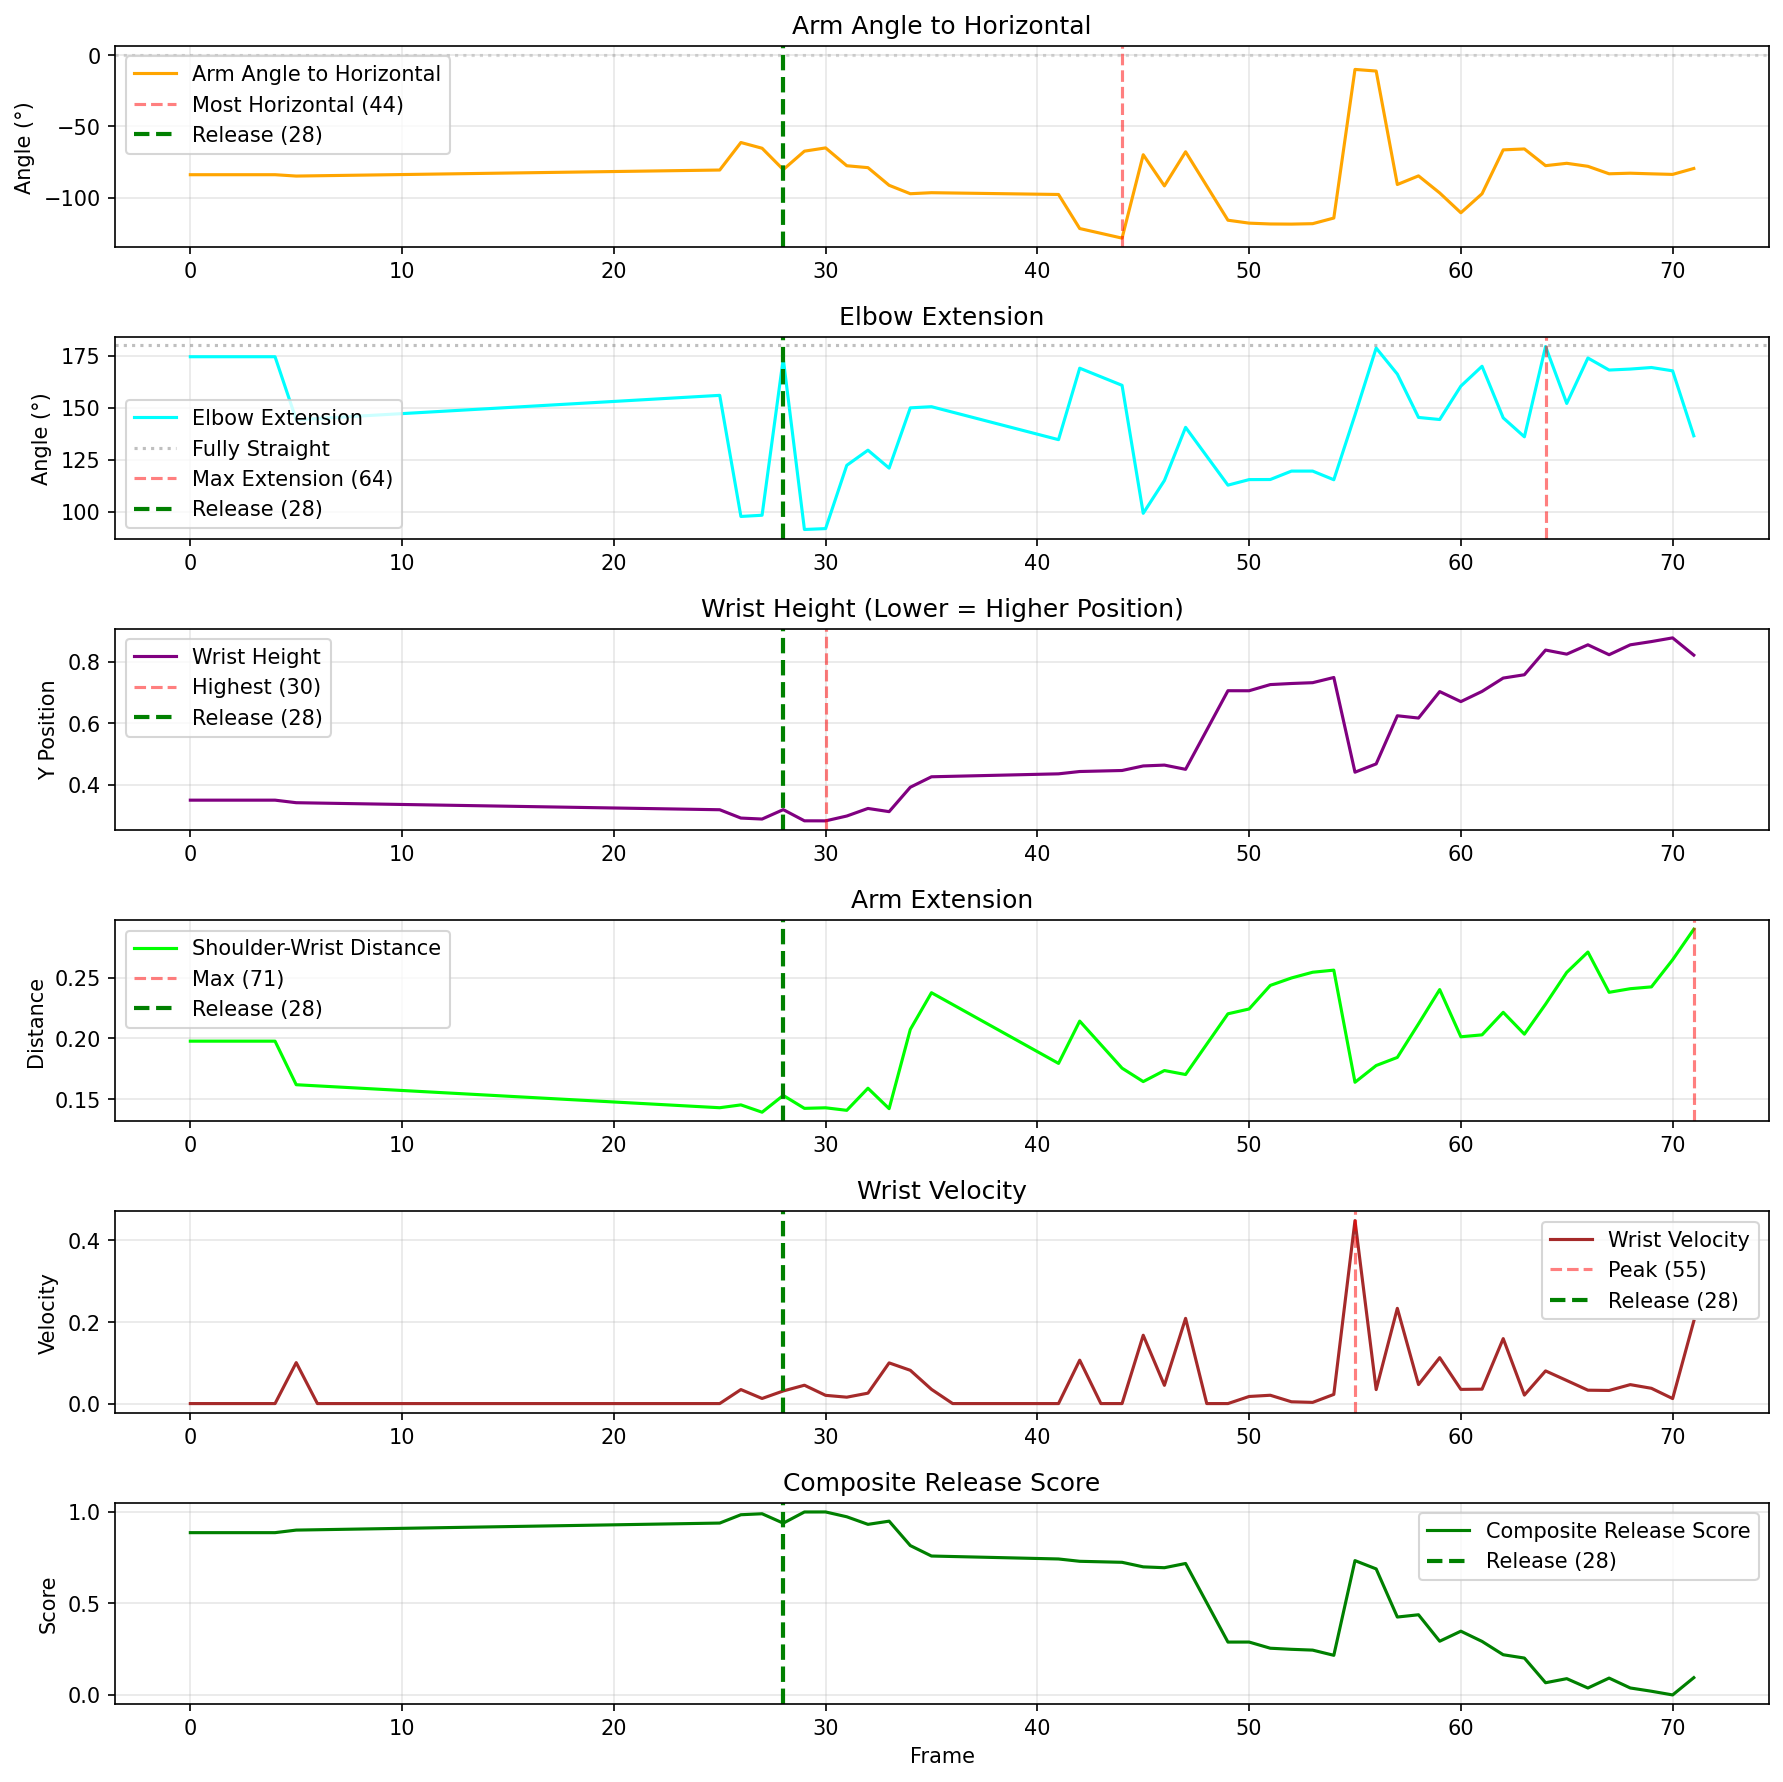
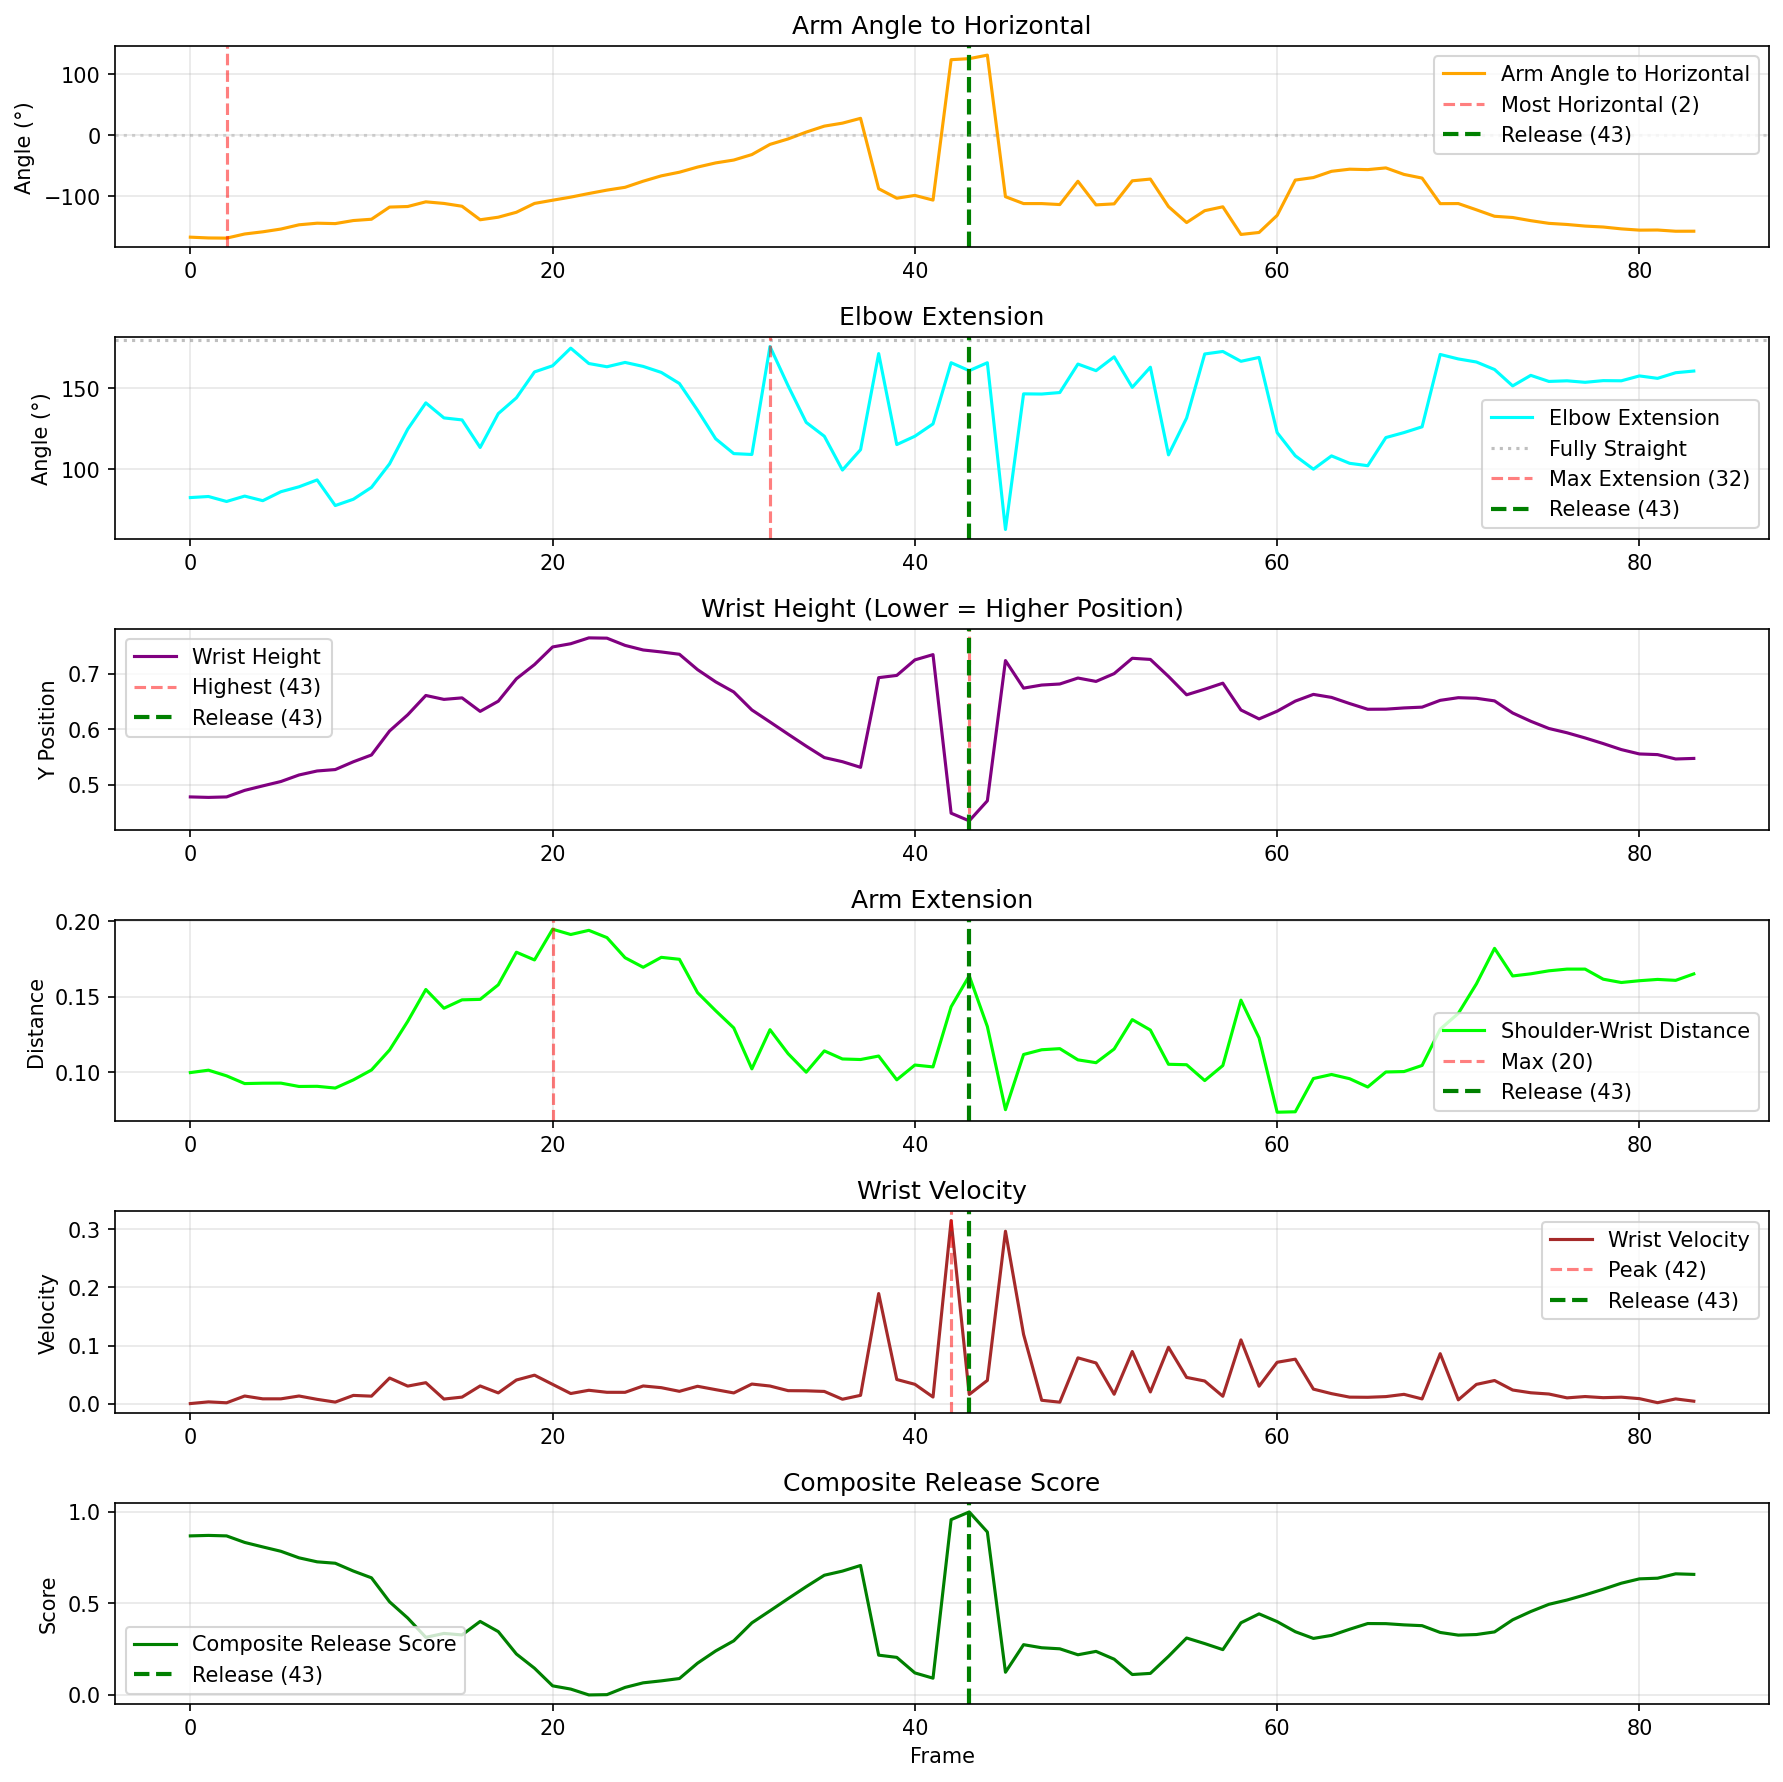
Added release point functionality

diff --git a/test/release1.py b/test/release1.py
@@ -1,0 +1,196 @@
+import cv2
+import math
+import mediapipe as mp
+import numpy as np
+
+VIDEO_IN = "pitch2.mov"
+VIDEO_OUT = "./dodgers_annotated.mp4"   # set to None if you don't want to save
+PLAYBACK_SPEED = 0.35  # 1.0 = real-time-ish, 0.5 = half speed, 0.35 ~ slo-mo
+
+mp_pose = mp.solutions.pose
+
+def angle_deg(a, b, c):
+    """Angle ABC at point b in degrees. a,b,c are (x,y,z) floats."""
+    ax, ay, az = a
+    bx, by, bz = b
+    cx, cy, cz = c
+    bax, bay, baz = ax - bx, ay - by, az - bz
+    bcx, bcy, bcz = cx - bx, cy - by, cz - bz
+    dot = bax * bcx + bay * bcy + baz * bcz
+    nba = math.sqrt(bax*bax + bay*bay + baz*baz)
+    nbc = math.sqrt(bcx*bcx + bcy*bcy + bcz*bcz)
+    if nba == 0 or nbc == 0:
+        return None
+    cos_t = max(-1.0, min(1.0, dot / (nba * nbc)))
+    return math.degrees(math.acos(cos_t))
+
+def to_px(landmark, w, h):
+    """Convert normalized landmark to pixel coordinates."""
+    return int(landmark.x * w), int(landmark.y * h)
+
+def draw_angle_arc(img, A, B, C, color=(0, 255, 255)):
+    BA = (A[0] - B[0], A[1] - B[1])
+    BC = (C[0] - B[0], C[1] - B[1])
+    dot = BA[0]*BC[0] + BA[1]*BC[1]
+    nba = math.hypot(*BA)
+    nbc = math.hypot(*BC)
+    if nba == 0 or nbc == 0:
+        return None
+    cos_t = max(-1.0, min(1.0, dot/(nba*nbc)))
+    theta = math.degrees(math.acos(cos_t))
+    r = int(0.2 * min(nba, nbc))
+    r = max(r, 15)
+    angA = math.degrees(math.atan2(-BA[1], BA[0]))
+    angC = math.degrees(math.atan2(-BC[1], BC[0]))
+    def shortest_sweep(a1, a2):
+        da = (a2 - a1) % 360
+        if da > 180:
+            da -= 360
+        return da
+    sweep = shortest_sweep(angA, angC)
+    cv2.ellipse(img, B, (r, r), 0, angA, angA + sweep, color, 2, cv2.LINE_AA)
+    return theta
+
+def arm_angle_to_horizontal(A, B):
+    vx = B[0] - A[0]
+    vy = B[1] - A[1]
+    mag = math.hypot(vx, vy)
+    if mag == 0:
+        return None
+    cos_t = vx / mag
+    cos_t = max(-1.0, min(1.0, cos_t))
+    return math.degrees(math.acos(cos_t))
+
+def main():
+    cap = cv2.VideoCapture(VIDEO_IN)
+    if not cap.isOpened():
+        raise RuntimeError(f"Could not open video: {VIDEO_IN}")
+
+    fps = cap.get(cv2.CAP_PROP_FPS) or 30.0
+    width  = int(cap.get(cv2.CAP_PROP_FRAME_WIDTH))
+    height = int(cap.get(cv2.CAP_PROP_FRAME_HEIGHT))
+    delay_ms = max(1, int((1000.0 / fps) / max(1e-6, PLAYBACK_SPEED)))
+
+    writer = None
+    if VIDEO_OUT:
+        fourcc = cv2.VideoWriter_fourcc(*"mp4v")
+        out_fps = fps * PLAYBACK_SPEED if PLAYBACK_SPEED < 1.0 else fps
+        out_fps = max(10.0, out_fps)
+        writer = cv2.VideoWriter(VIDEO_OUT, fourcc, out_fps, (width, height))
+
+    # --- Storage for release-point analysis ---
+    elbow_angles = []
+    wrist_heights = []
+    shoulder_wrist_dists = []
+
+    with mp_pose.Pose(
+        static_image_mode=False,
+        model_complexity=1,
+        smooth_landmarks=True,
+        enable_segmentation=False,
+        min_detection_confidence=0.5,
+        min_tracking_confidence=0.5
+    ) as pose:
+        frame_idx = 0
+        while True:
+            ok, frame_bgr = cap.read()
+            if not ok:
+                break
+            frame_idx += 1
+            t_sec = frame_idx / fps
+
+            frame_rgb = cv2.cvtColor(frame_bgr, cv2.COLOR_BGR2RGB)
+            results = pose.process(frame_rgb)
+
+            angle_text = "None"
+            arm_angle_text = "None"
+
+            if results.pose_landmarks:
+                lm = results.pose_landmarks.landmark
+                r_sh = lm[mp_pose.PoseLandmark.RIGHT_SHOULDER]
+                r_el = lm[mp_pose.PoseLandmark.RIGHT_ELBOW]
+                r_wr = lm[mp_pose.PoseLandmark.RIGHT_WRIST]
+
+                vis_ok = (r_sh.visibility > 0.5 and r_el.visibility > 0.5 and r_wr.visibility > 0.5)
+                if vis_ok:
+                    # 3D angle + 2D features
+                    angle3d = angle_deg(
+                        (r_sh.x, r_sh.y, r_sh.z),
+                        (r_el.x, r_el.y, r_el.z),
+                        (r_wr.x, r_wr.y, r_wr.z),
+                    )
+
+                    if angle3d is not None:
+                        elbow_angles.append(angle3d)
+                        wrist_heights.append(r_wr.y)  # normalized y (smaller = higher)
+                        dist = math.sqrt((r_wr.x - r_sh.x)**2 + (r_wr.y - r_sh.y)**2)
+                        shoulder_wrist_dists.append(dist)
+                    else:
+                        elbow_angles.append(np.nan)
+                        wrist_heights.append(np.nan)
+                        shoulder_wrist_dists.append(np.nan)
+
+                    A = to_px(r_sh, width, height)
+                    B = to_px(r_el, width, height)
+                    C = to_px(r_wr, width, height)
+                    cv2.line(frame_bgr, A, B, (0, 255, 0), 4, cv2.LINE_AA)
+                    cv2.line(frame_bgr, B, C, (0, 255, 0), 4, cv2.LINE_AA)
+                    for p in (A, B, C):
+                        cv2.circle(frame_bgr, p, 6, (255, 255, 255), -1, cv2.LINE_AA)
+                    draw_angle_arc(frame_bgr, A, B, C)
+
+            # Overlay HUD
+            cv2.putText(frame_bgr, f"Frame {frame_idx}", (20, 40),
+                        cv2.FONT_HERSHEY_SIMPLEX, 1.0, (255, 255, 0), 2, cv2.LINE_AA)
+            cv2.imshow("Pitching Analysis", frame_bgr)
+            if writer:
+                writer.write(frame_bgr)
+
+            key = cv2.waitKey(delay_ms) & 0xFF
+            if key in (ord('q'), 27):
+                break
+
+    cap.release()
+    cv2.destroyAllWindows()
+    if writer:
+        writer.release()
+
+    # --- Analyze for release frame ---
+    elbow_angles = np.array(elbow_angles)
+    wrist_heights = np.array(wrist_heights)
+    shoulder_wrist_dists = np.array(shoulder_wrist_dists)
+    valid = ~np.isnan(elbow_angles)
+
+    if np.sum(valid) < 10:
+        print("Not enough valid frames for release analysis.")
+        return
+
+    elbow_angles = elbow_angles[valid]
+    wrist_heights = wrist_heights[valid]
+    shoulder_wrist_dists = shoulder_wrist_dists[valid]
+    indices = np.arange(len(elbow_angles))
+
+    # Normalize
+    norm_elbow = (elbow_angles - elbow_angles.min()) / (elbow_angles.max() - elbow_angles.min())
+    norm_dist = (shoulder_wrist_dists - shoulder_wrist_dists.min()) / (shoulder_wrist_dists.max() - shoulder_wrist_dists.min())
+    norm_wrist_height = (wrist_heights.max() - wrist_heights) / (wrist_heights.max() - wrist_heights.min())
+
+    # Filter frames: skip first few, require arm nearly straight
+    start_frame = 5
+    straight_mask = elbow_angles > 160
+    candidate_mask = straight_mask & (indices >= start_frame)
+
+    if np.any(candidate_mask):
+        cand_idx = indices[candidate_mask]
+        score = (0.6 * norm_wrist_height[candidate_mask]
+                 + 0.3 * norm_elbow[candidate_mask]
+                 + 0.1 * norm_dist[candidate_mask])
+        release_rel = cand_idx[np.argmax(score)]
+    else:
+        release_rel = np.argmax(norm_wrist_height)
+
+    release_frame = int(release_rel)
+    print(f"Estimated RELEASE FRAME ≈ {release_frame}")
+
+if __name__ == "__main__":
+    main()

diff --git a/test/release.py b/test/release.py
@@ -10,7 +10,7 @@ pose = mp_pose.Pose(static_image_mode=False, min_detection_confidence=0.5)
 mp_drawing = mp.solutions.drawing_utils
 
 # Open video
-cap = cv2.VideoCapture('pitch2.mov')
+cap = cv2.VideoCapture('pitch5.mov')
 
 # Get video properties
 fps = int(cap.get(cv2.CAP_PROP_FPS))
@@ -106,7 +106,6 @@ wrist_heights_clean = clean_data(wrist_heights)
 distances_clean = clean_data(shoulder_to_wrist_distances)
 velocities_clean = np.array(wrist_velocities)
 
-# --- REFINED RELEASE FRAME DETECTION ---
 start_frame = 5  # skip first few frames to avoid initial noise
 norm_elbow = (elbow_extension_clean - elbow_extension_clean.min()) / (elbow_extension_clean.max() - elbow_extension_clean.min())
 norm_distance = (distances_clean - distances_clean.min()) / (distances_clean.max() - distances_clean.min())